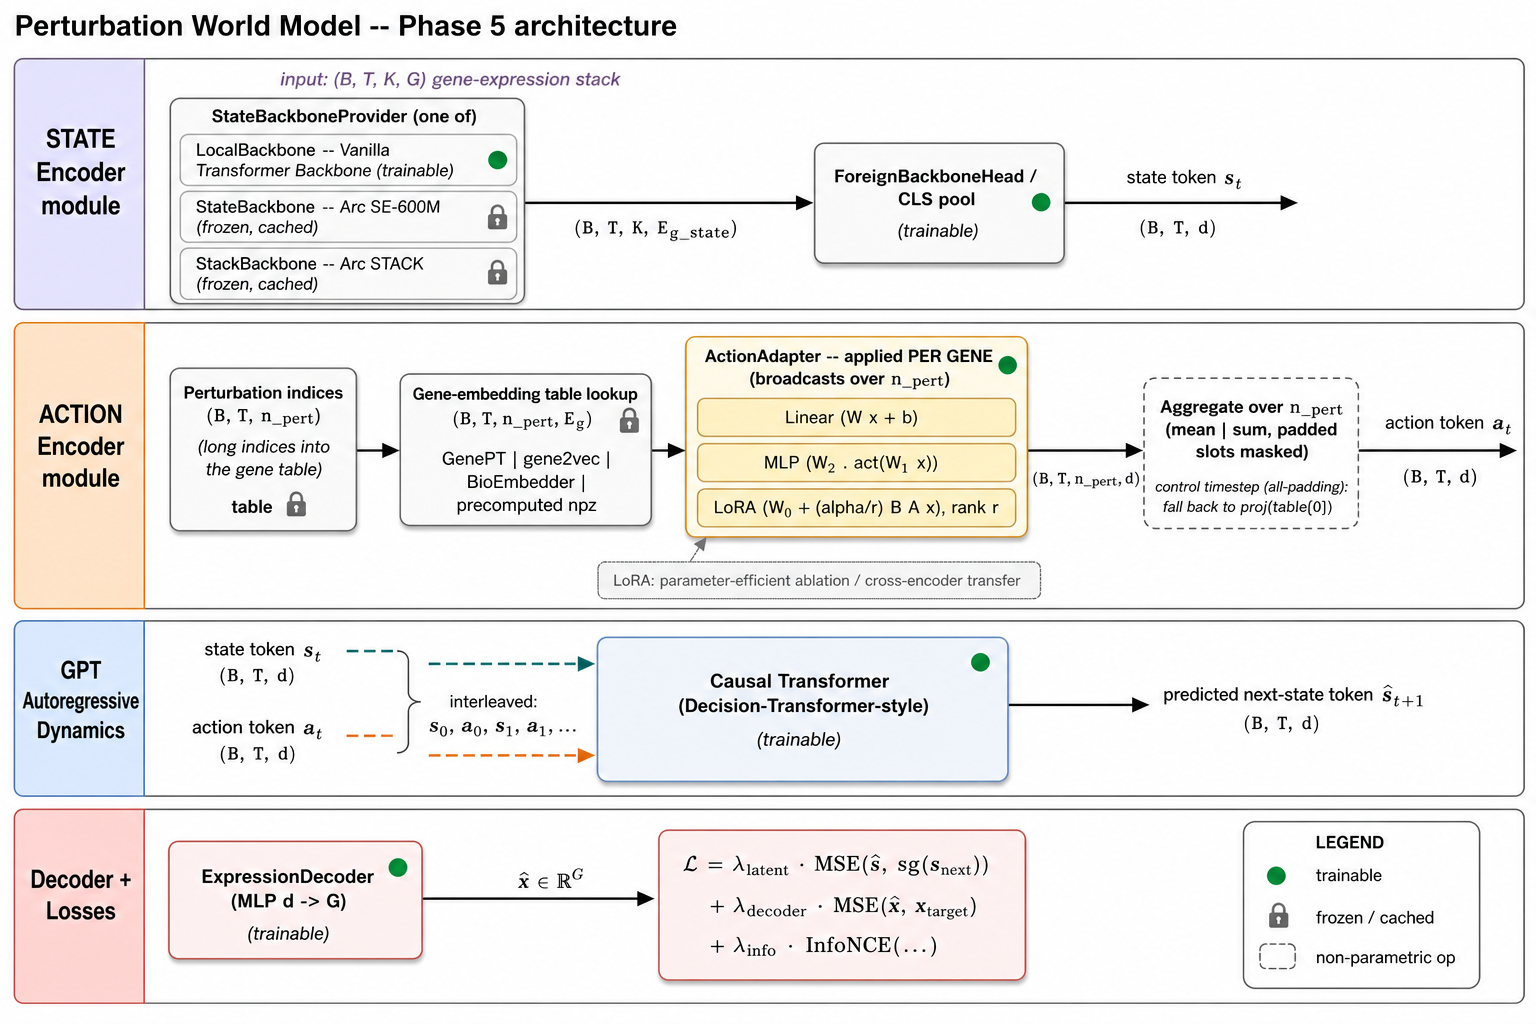
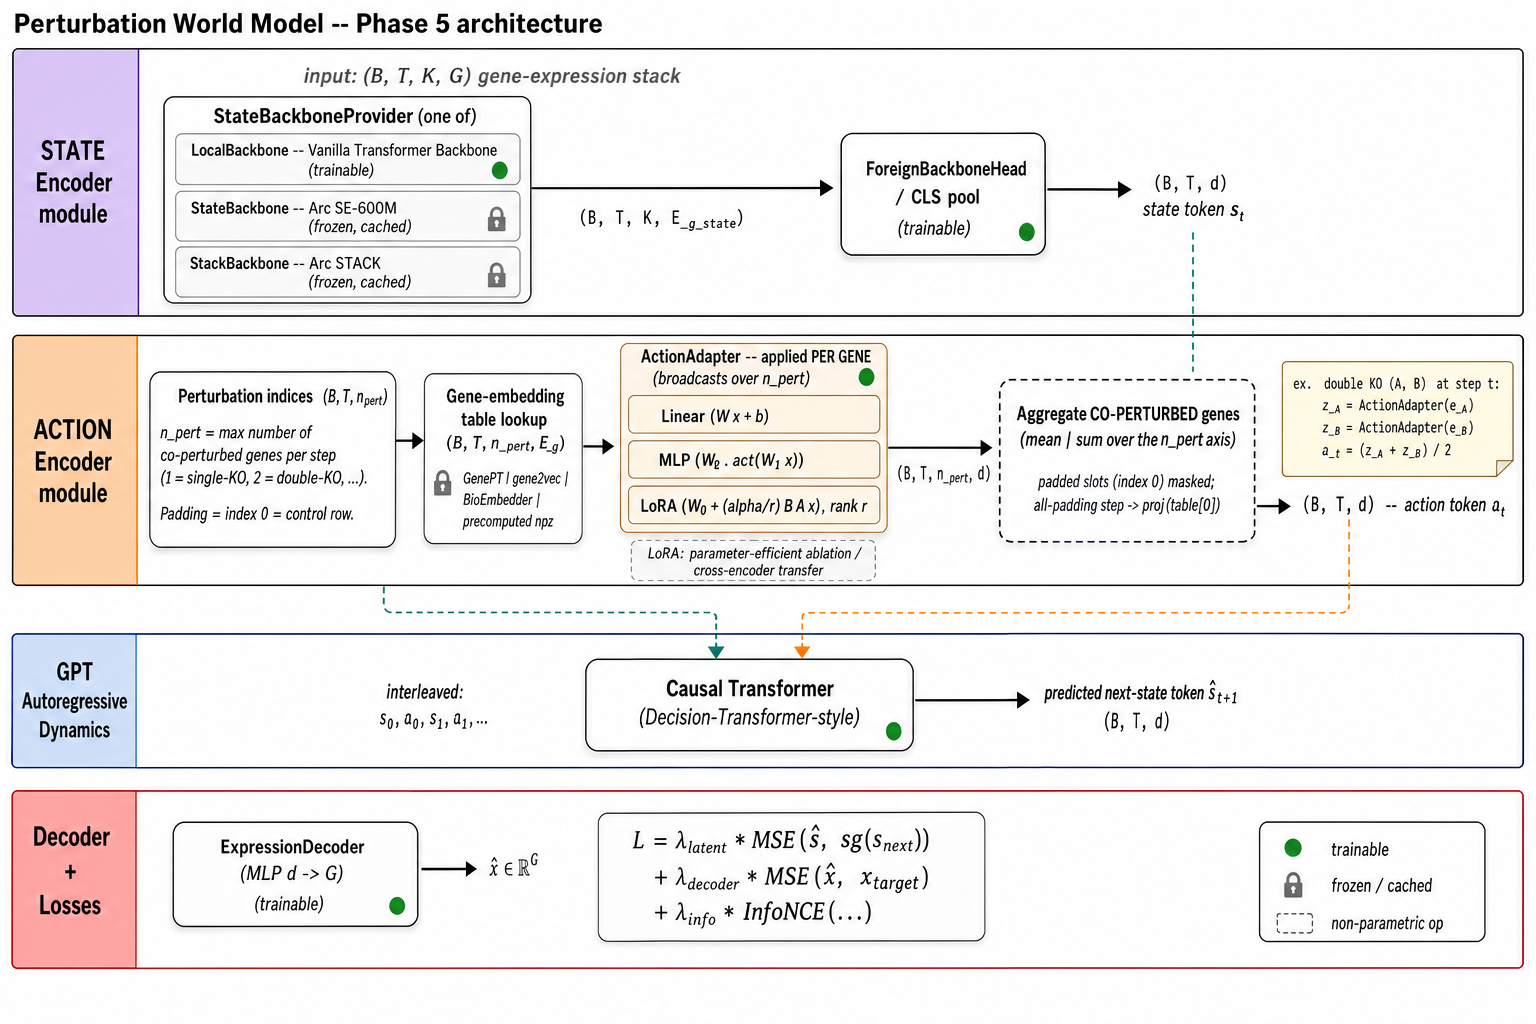
docs(world_model): clarify what mean-pool over n_pert actually averages
Adds explicit definitions and a worked example so the n_pert
aggregation step in the action encoder cannot be misread as something
across cells, time, or the embedding dimension.

- gene_embedding_action.py: module docstring now defines n_pert as the
  maximum number of co-perturbed genes per timestep, shows the index
  layout for single-KO / double-KO / control rows, and walks through a
  double-KO (A, B) example end-to-end (lookup -> per-gene project ->
  mean of the two projected gene tokens). The `pool` parameter doc is
  rephrased the same way.
- README: the "Action encoding" section gains a "What n_pert is, and
  what we aggregate over" subsection with the same concrete index
  examples and the same worked double-KO calculation.
- Phase 5 schematic regenerated. The aggregator box is now labelled
  "Aggregate CO-PERTURBED genes (mean | sum over the n_pert axis)"
  with the padding / control fallback annotated underneath, and a
  small worked-example inset next to it shows the double-KO (A, B)
  averaging explicitly. The n_pert input box now carries an inline
  definition.

Changed region(s): [[0.0, 0.0, 1.0, 1.0]]

diff --git a/src/embpy/world_model/models/action/gene_embedding_action.py b/src/embpy/world_model/models/action/gene_embedding_action.py
@@ -5,29 +5,71 @@ action is the embedding of the perturbed gene in some pretrained gene
 embedding space (GenePT, gene2vec, BioEmbedder-backed foundation
 models, ...).
 
-For multi-gene perturbations (e.g. dual-CRISPR) the data flow is:
+What the ``n_pert`` axis represents
+-----------------------------------
+``n_pert`` is the **maximum number of genes co-perturbed at a single
+timestep** in the dataset (e.g. ``n_pert = 1`` for single-CRISPR
+screens like Replogle / Nadig, ``n_pert = 2`` for double knockouts,
+etc.). For each ``(b, t)`` step, ``gene_indices[b, t, :]`` lists the
+indices of the genes perturbed at that step, right-padded with the
+reserved row ``0`` (control / non-targeting / padding token) when the
+local cardinality is smaller than ``n_pert``.
 
-    lookup  : (B, T, n_pert)        -> (B, T, n_pert, E_g)
-    project : ActionAdapter applied per-gene over the trailing dim
-              (Linear / MLP / LoRA), broadcasting cleanly over leading dims
-              -> (B, T, n_pert, d_model)
-    aggregate : mean / sum across the n_pert axis, with padded slots
-                (gene index 0) masked out
+So for a double knockout of genes ``A`` and ``B`` at step ``t`` and a
+dataset with ``n_pert = 2``, ``gene_indices[b, t, :] = [idx_A, idx_B]``.
+For a single-gene knockout of ``A`` with the same global ``n_pert = 2``,
+``gene_indices[b, t, :] = [idx_A, 0]``. For an all-control step,
+``gene_indices[b, t, :] = [0, 0]``.
+
+Data flow (multi-gene perturbations)
+------------------------------------
+::
+
+    lookup    : (B, T, n_pert)        -> (B, T, n_pert, E_g)
+    project   : ActionAdapter applied PER GENE over the trailing dim
+                (Linear / MLP / LoRA), broadcasting cleanly over leading
+                dims     ->  (B, T, n_pert, d_model)
+    aggregate : mean / sum across the n_pert axis -- i.e. across the
+                co-perturbed genes at each (b, t) step -- with padded
+                slots (index 0) masked out
               -> (B, T, d_model)
 
-This ordering -- project then aggregate, rather than aggregate then
-project -- has two desirable properties:
+Worked example. Take a double knockout of (A, B) at step t, with
+``n_pert = 2``. The encoder:
 
-1. For the ``Linear`` adapter and ``pool="mean"`` it is **byte-equivalent**
-   to the legacy aggregate-then-project path (linearity of ``W @ . + b``
-   commutes with masked-mean when at least one slot is valid). The
-   all-padding edge case (control timesteps) is preserved explicitly by
-   falling back to ``proj(table[0])`` instead of zero.
-2. For the non-linear adapters (``MLP``, ``LoRA`` with dropout) it lets
-   each perturbed gene undergo its own non-linear projection before the
-   contributions are combined, which is strictly more expressive than
-   averaging in the raw E_g space and then applying one non-linearity.
+1. Looks up two gene vectors ``e_A, e_B in R^{E_g}`` from the
+   pretrained (frozen-by-default) embedding table.
+2. Applies the trainable ``ActionAdapter`` *independently to each*:
+   ``z_A = ActionAdapter(e_A)`` and ``z_B = ActionAdapter(e_B)``,
+   both in ``R^{d_model}``.
+3. Averages them (mean pool over the ``n_pert`` axis; padding ignored
+   if any slot equals 0):
+   ``a_t = (z_A + z_B) / 2  in R^{d_model}``.
 
+For a single-gene knockout (``n_pert == 1`` or all-but-one slot is
+padding) the average is a no-op and ``a_t = z_A``. For an all-control
+step, the encoder falls back to ``proj(table[0])`` (see the
+"control / all-padding edge case" block in ``forward``).
+
+The aggregator is permutation-invariant on purpose: biologically
+perturbing ``{A, B}`` is the same event as perturbing ``{B, A}``.
+
+Why project then aggregate (rather than the reverse)?
+-----------------------------------------------------
+
+1. For the ``Linear`` adapter and ``pool="mean"`` the two orderings
+   are **byte-equivalent** (linearity of ``W x + b`` commutes with
+   masked-mean when at least one slot is valid). The all-padding edge
+   case (control timesteps) is preserved explicitly by falling back to
+   ``proj(table[0])`` instead of zero.
+2. For the non-linear adapters (``MLP``, ``LoRA`` with dropout) it
+   lets each co-perturbed gene undergo its own non-linear projection
+   before the contributions are combined, which is strictly more
+   expressive than averaging in the raw ``E_g`` space and then
+   applying one non-linearity.
+
+Implementation notes
+--------------------
 Inputs are *long* indices into the embedding table, not raw float
 embeddings, which lets autograd ignore the embedding table when it is
 frozen and avoids materialising the full lookup tensor for every batch.
@@ -78,10 +120,13 @@ class GeneEmbeddingAction(nn.Module):
     d_model
         Output token width (matches the dynamics ``d_model``).
     pool
-        Aggregator across the ``n_pert`` axis, applied *after* the
-        per-gene projection: ``"mean"`` (default, padded slots masked)
-        or ``"sum"``. For single-gene perturbations (``n_pert == 1``)
-        both reduce to the identity.
+        Aggregator across the ``n_pert`` axis -- i.e. across the genes
+        that are co-perturbed at a single ``(b, t)`` step (e.g. the two
+        genes of a double knockout) -- applied *after* the per-gene
+        ``ActionAdapter`` projection: ``"mean"`` (default, padded slots
+        masked) or ``"sum"``. For single-gene perturbations
+        (``n_pert == 1`` or only one non-padded slot) both reduce to the
+        identity.
     freeze_embeddings
         If True, the embedding table's weights stay non-trainable.
     project_hidden

diff --git a/src/embpy/world_model/README.md b/src/embpy/world_model/README.md
@@ -90,19 +90,53 @@ user wants to drop in (GenePT, gene2vec, scGPT gene-token weights,
 etc.). Index 0 is reserved for the control / non-targeting / padding
 token, which lets the model learn an "identity action" as well.
 
-Multi-gene perturbations follow a **project-then-aggregate** pipeline:
+#### What `n_pert` is, and what we aggregate over
+
+`n_pert` is the **maximum number of genes co-perturbed at a single
+timestep** in the dataset. For each `(b, t)` step,
+`gene_indices[b, t, :]` lists the indices of the genes perturbed at
+that step, right-padded with `0` (the reserved control / padding row)
+when the local cardinality is smaller than `n_pert`. Concretely, for
+a dataset with `n_pert = 2`:
+
+```
+double knockout of (A, B):  gene_indices[b, t, :] = [idx_A, idx_B]
+single  knockout of (A)  :  gene_indices[b, t, :] = [idx_A,    0]
+control (no targeting)   :  gene_indices[b, t, :] = [    0,    0]
+```
+
+The aggregation that produces the action token `a_t` is **over those
+co-perturbed gene slots at the same timestep** -- it is not across
+cells, not across time, and not across the embedding dimension. It is
+a permutation-invariant set-aggregator over the set of perturbed
+genes, which is the right inductive bias because biologically
+perturbing `{A, B}` is the same event as perturbing `{B, A}`.
+
+#### Project-then-aggregate pipeline
+
+Multi-gene perturbations follow a **project-then-aggregate** flow:
 the `ActionAdapter` (Linear / MLP / LoRA) is applied per gene over the
 `n_pert` axis -- `nn.Linear` broadcasts cleanly over arbitrary leading
 dims -- and the resulting `(B, T, n_pert, d)` tensor is aggregated by
-masked mean (or sum) into the action token. Padded slots (gene
-index 0) are excluded from the aggregation, and an all-padding
-timestep falls back to `proj(table[0])` so control timesteps still
-carry a meaningful signal. For the `Linear` adapter with `pool="mean"`
-this ordering is byte-equivalent to the legacy aggregate-then-project
-path (linearity of `W x + b` commutes with masked-mean); for the
-non-linear adapters it is strictly more expressive, since each
-perturbed gene undergoes its own non-linear transformation before the
-contributions are combined.
+masked mean (or sum) into a single `(B, T, d)` action token. Padded
+slots (gene index 0) are excluded from the aggregation, and an
+all-padding timestep falls back to `proj(table[0])` so control
+timesteps still carry a meaningful signal.
+
+For the same double-knockout `(A, B)` example, the encoder does:
+
+```
+e_A, e_B   = embed(idx_A), embed(idx_B)            in R^{E_g}     # lookup
+z_A, z_B   = ActionAdapter(e_A), ActionAdapter(e_B) in R^{d}       # per-gene project
+a_t        = (z_A + z_B) / 2                        in R^{d}       # mean-pool over n_pert
+```
+
+For the `Linear` adapter with `pool="mean"` this ordering is
+byte-equivalent to the legacy aggregate-then-project path (linearity
+of `W x + b` commutes with masked-mean); for the non-linear adapters
+it is strictly more expressive, since each co-perturbed gene
+undergoes its own non-linear transformation before the contributions
+are combined.
 
 ### Training objectives
 
